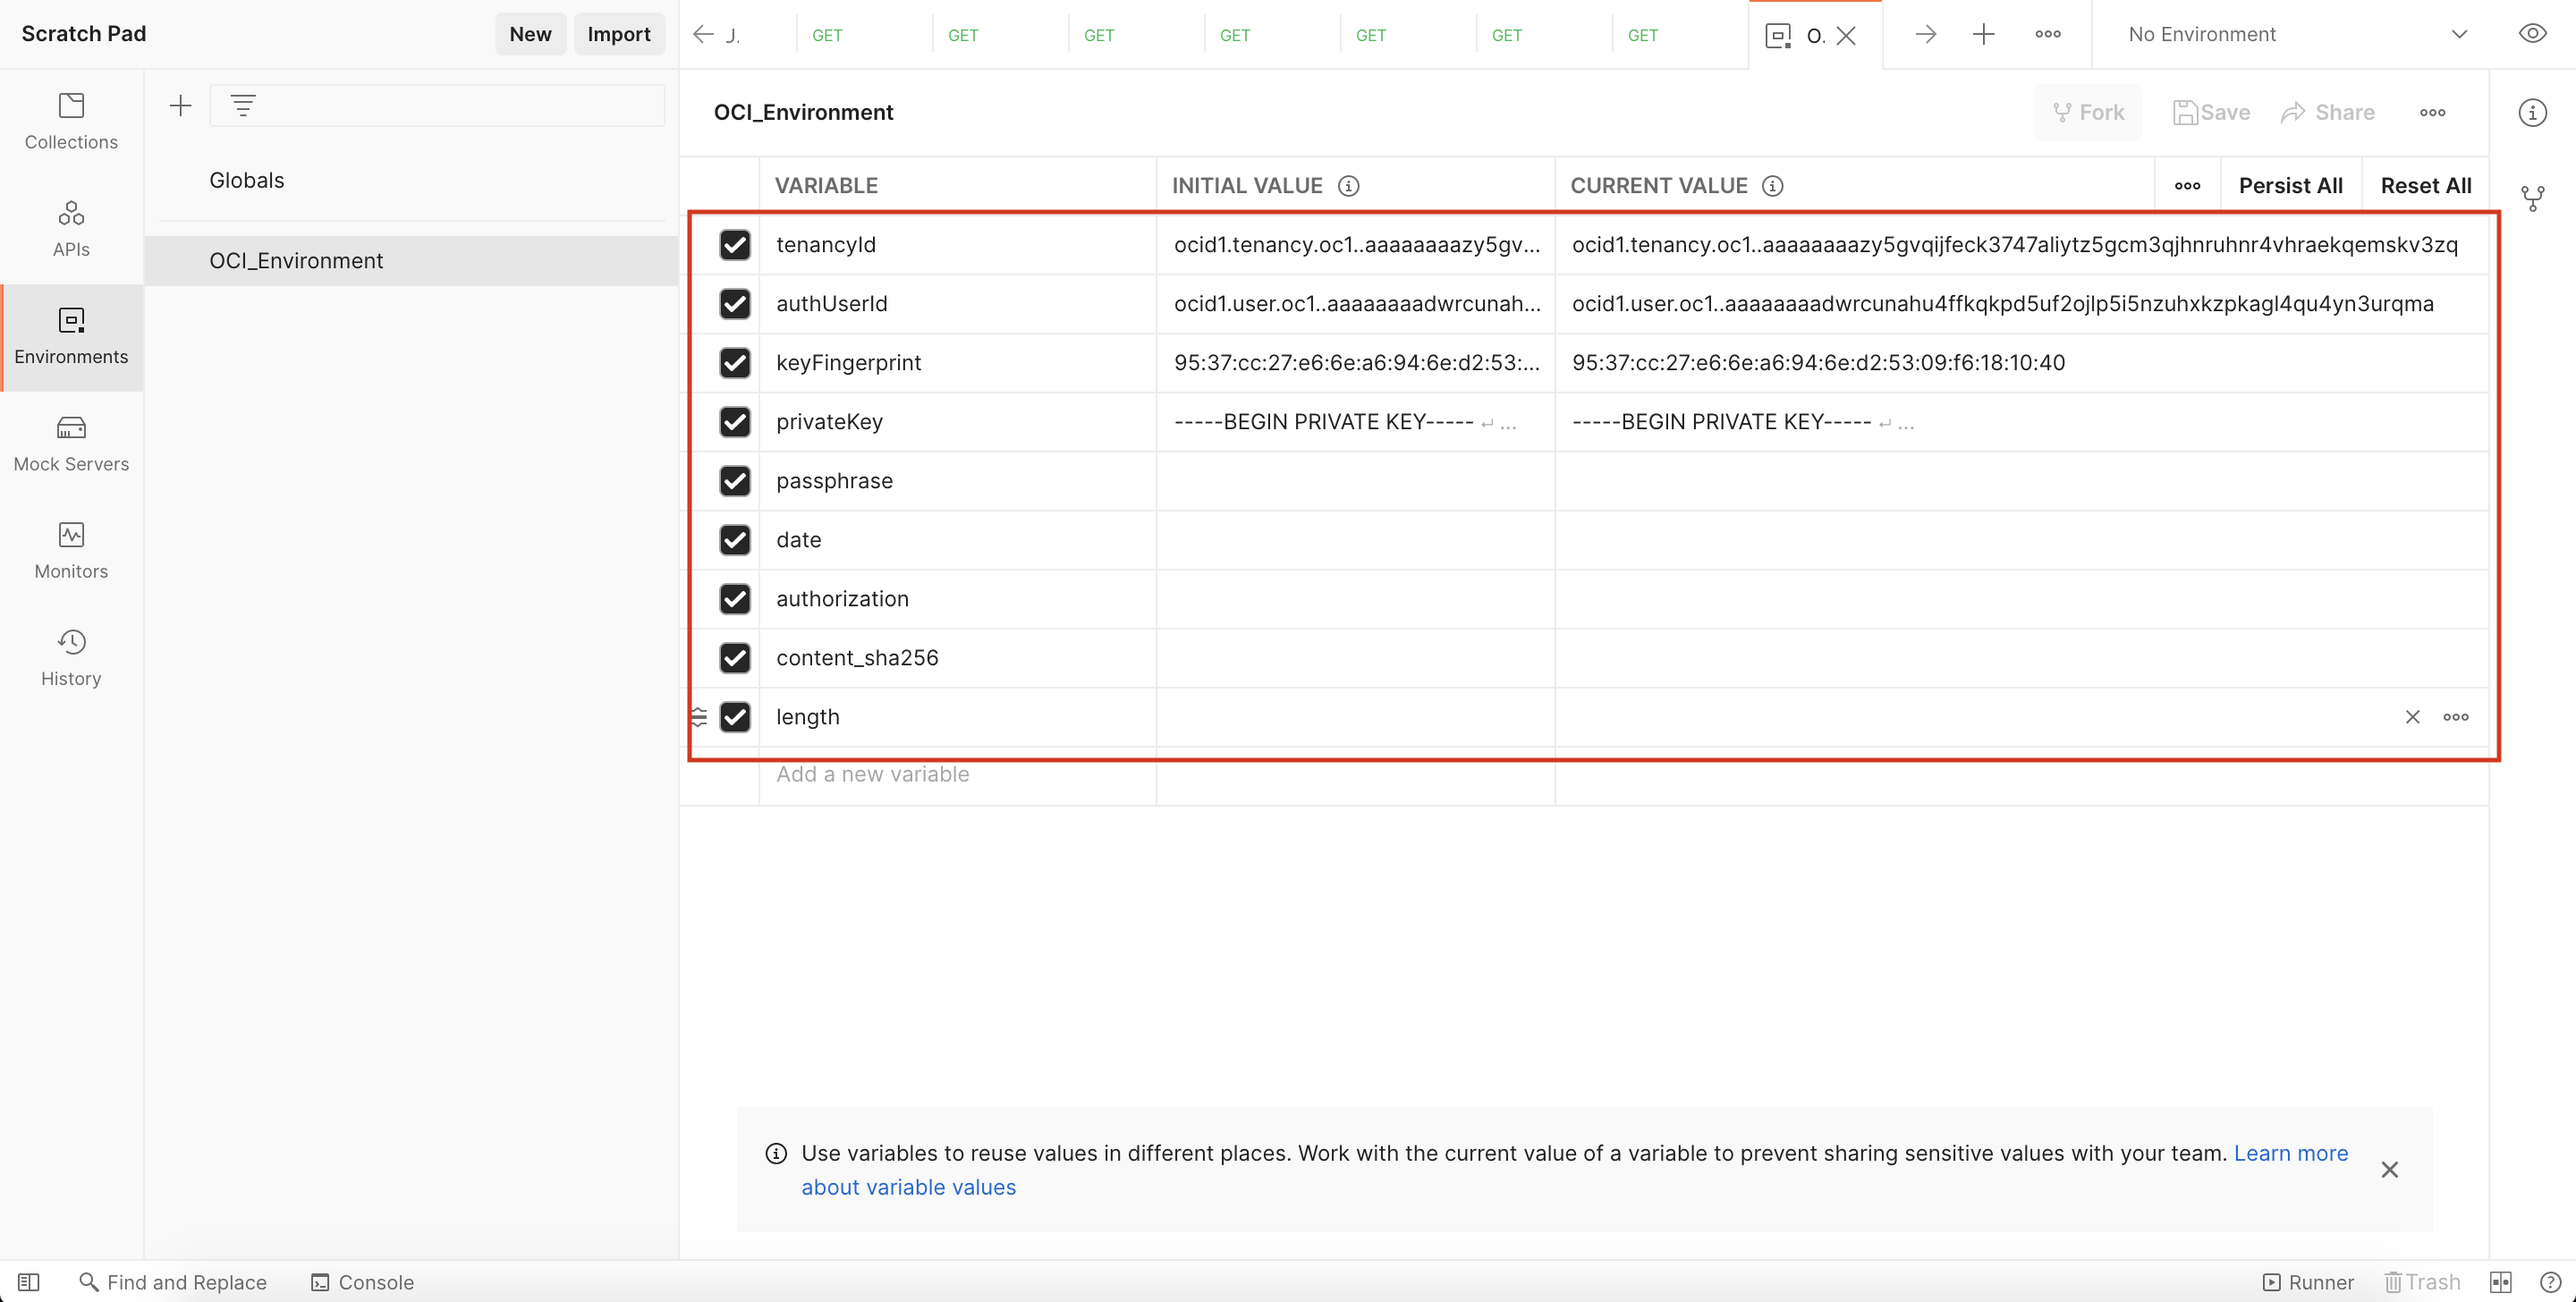
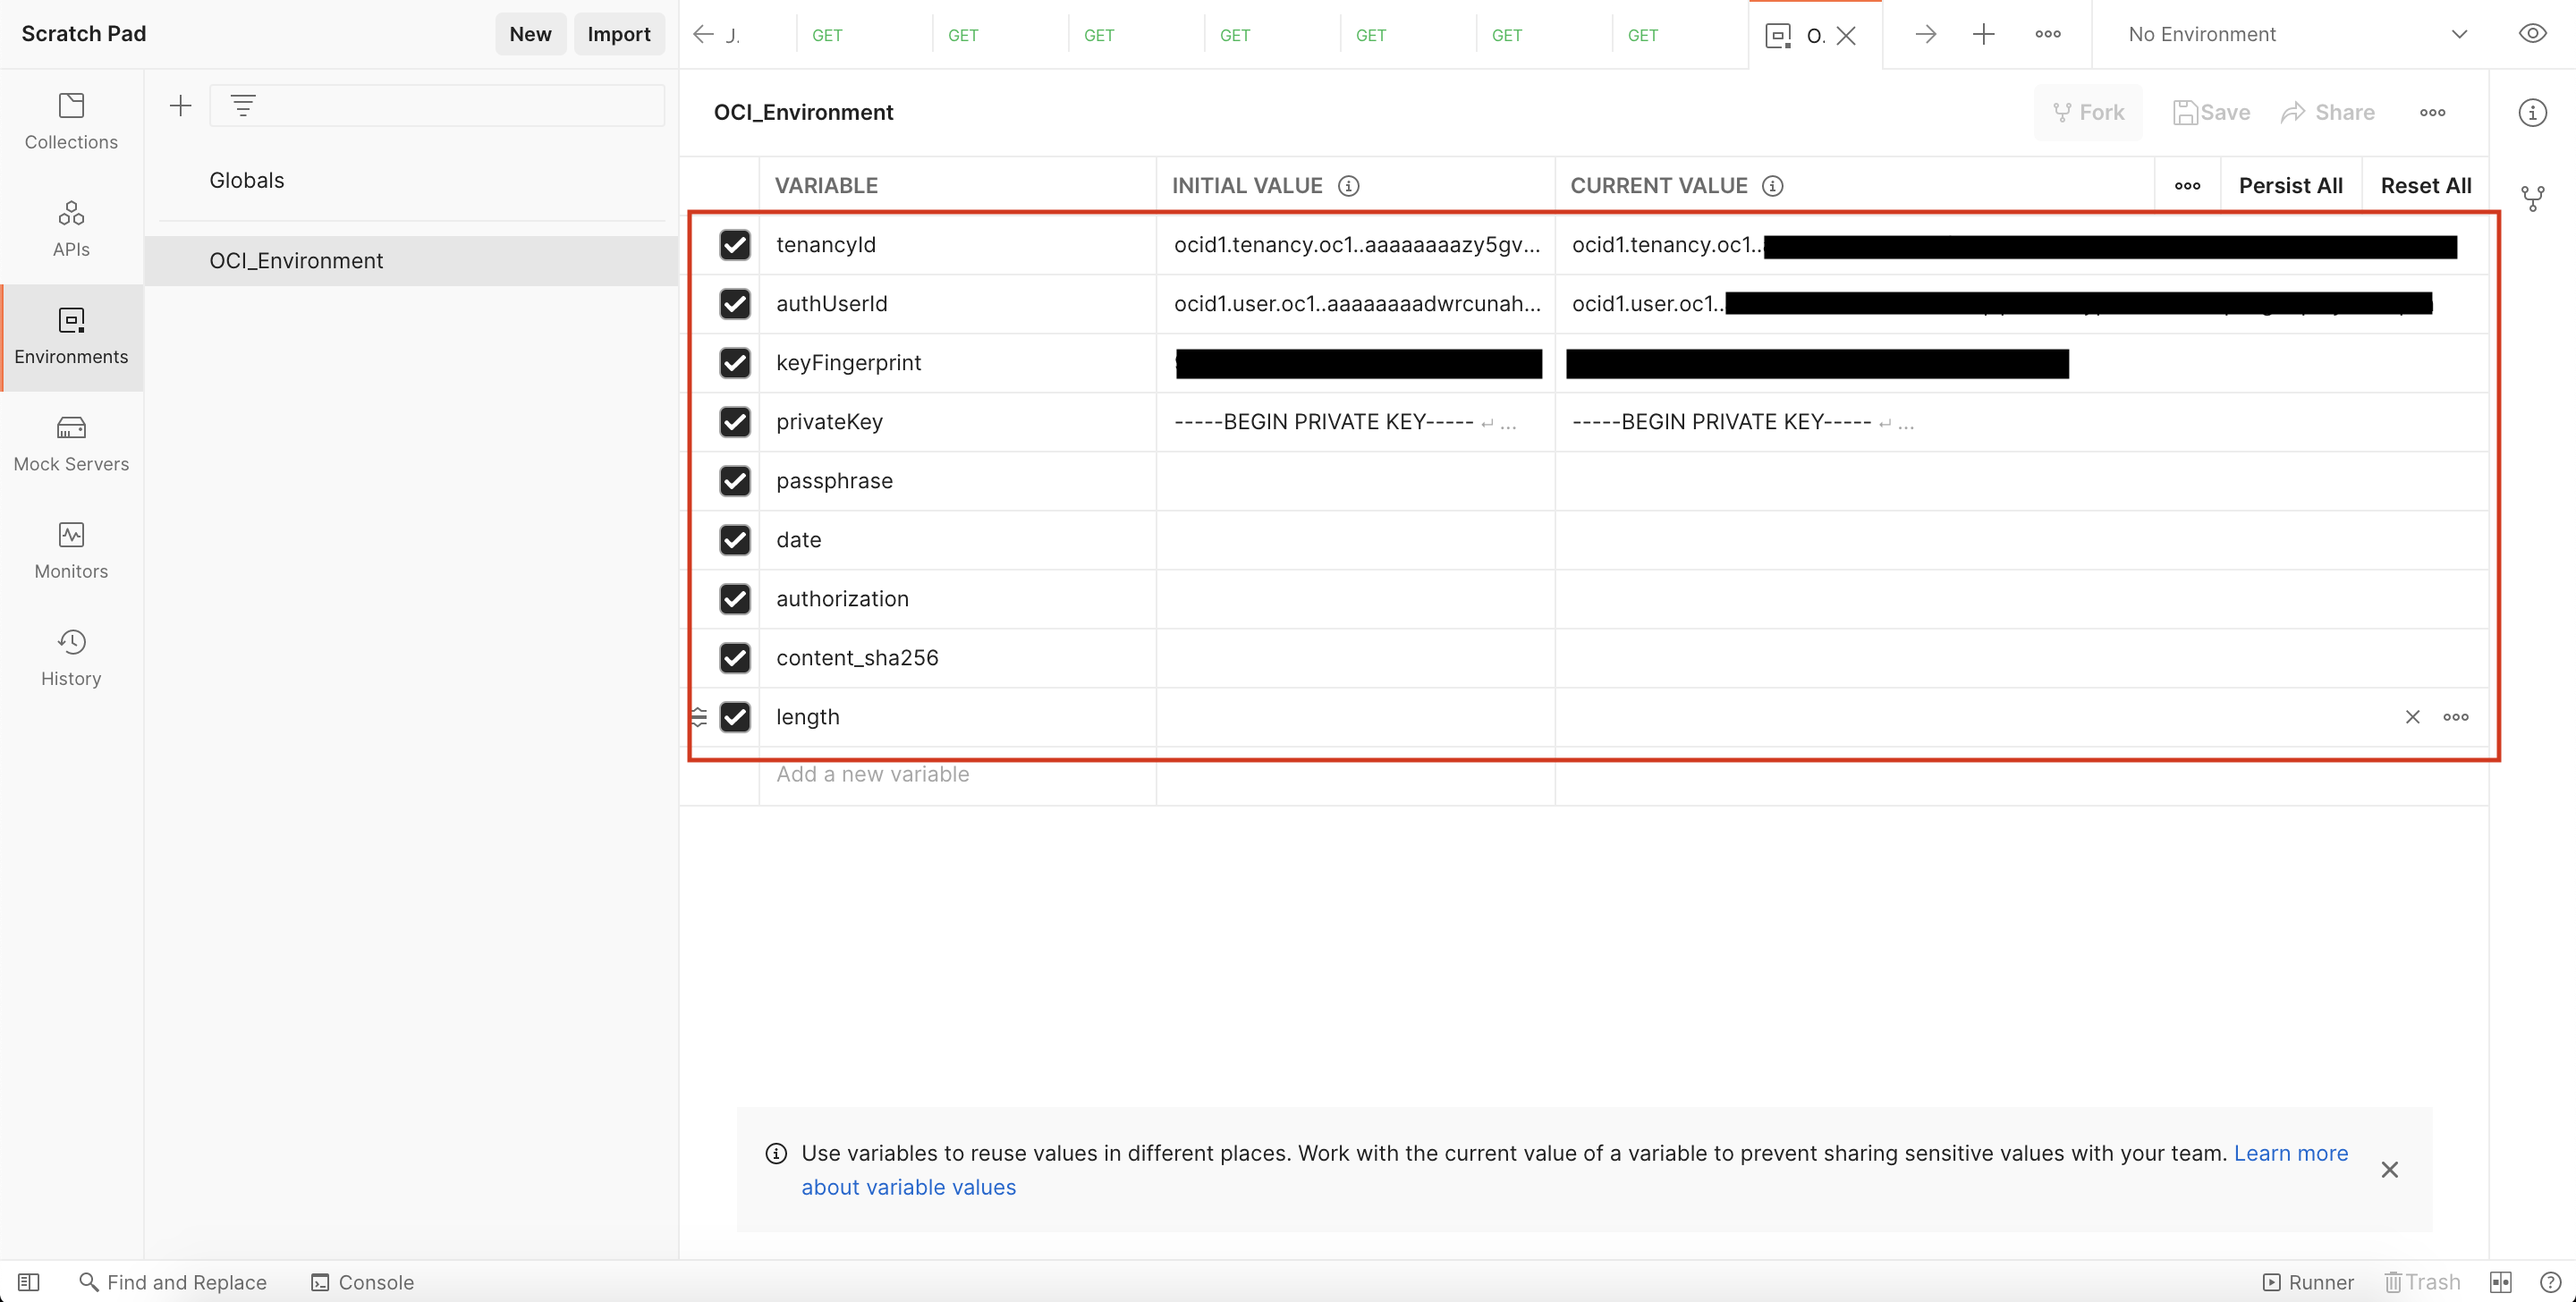
added enpoints for postman and edited screenshots

Changed region(s): [[0.4375, 0.1545, 0.9688, 0.3091]]

diff --git a/oci-library/oci-hol/oci-artificial-intelligence/ai-speech/oci-speech-rest/oci-speech-rest.md b/oci-library/oci-hol/oci-artificial-intelligence/ai-speech/oci-speech-rest/oci-speech-rest.md
@@ -33,6 +33,7 @@ Open and edit the newly imported environment (OCI_Environment), and set the vari
 Make sure to set both Initial Value and Current Value of the variables(set both as the same value).
 
 Click the Save button to commit your changes to the environment.
+(sensitive information redacted from below screenshot)
     ![](./images/setVar.png " ")
 
 ### 3. Import the Collections
@@ -54,41 +55,142 @@ Just make sure that the OCI REST calls are executed as part of the OCI REST COLL
 
 ## **TASK 2:** Invoke Speech OCI REST APIs
 
-Invoke Speech OCI REST APIs by clicking any one of the requests in the OCI REST COLLECTION. Enter the text you want to analyze in the body as shown below:
-    ```
-    <copy>{
-        "text" : "American football was derived from the European games of rugby and soccer. Unlike the game of soccer, however, American football focuses more on passing and catching the ball with the hands as opposed to kicking the ball with the feet. Standard American football field is 120 yards in length and 160 feet in width. They are hash marks on every yards and every 10 yards. American football is quickly become more popular then baseball and fan bases are increasing rapidly. Jerry Rice, Tom Brady and Lawrence Taylor are few top player of this sports."
-    }<copy>
-    ```
+Invoke Speech OCI REST APIs by clicking any one of the requests in the OCI SPEECH REST COLLECTION.
     
-Below in the example shown to invoke Detect Language Service.
-    ![](./images/collectionREST.png " ")
+Below in the example shown to invoke Create Transcription Job.
 
-OCI Language Service EndPoints for all the services:
+Replace all <placeholder> values with the corresponding values of the job you want to create
+    ![](./images/postman_screenshot.png " ")
 
+OCI Speech Service EndPoints for all the services:
+NOTE: be sure to replace <placeholder> values with actual job values
+
+
+### <u>Create Transcription Job</u>
+Endpoint:
 ```
-# Language Detection
-https://language.aiservice.us-ashburn-1.oci.oraclecloud.com/20210101/actions/detectDominantLanguage
-
-# Key Phrase Extraction
-https://language.aiservice.us-ashburn-1.oci.oraclecloud.com/20210101/actions/detectLanguageKeyPhrases
-
-# Named Entity Recognition
-https://language.aiservice.us-ashburn-1.oci.oraclecloud.com/20210101/actions/detectLanguageEntities
-
-# Text Classification
-https://language.aiservice.us-ashburn-1.oci.oraclecloud.com/20210101/actions/detectLanguageTextClassification
-
-# Aspect-Based Sentiment Analysis
-https://language.aiservice.us-ashburn-1.oci.oraclecloud.com/20210101/actions/detectLanguageSentiments
-
+<copy>
+https://speech.aiservice-preprod.us-phoenix-1.oci.oraclecloud.com/20220101/transcriptionJobs
+</copy>
 ```
+Body:
+```
+<copy>
+{
+    "compartmentId": "ocid1.compartment.oc1..<uniqueID>",
+    "definedTags": null,
+    "description": "<descriptionPlaceholder>",
+    "displayName": "<displayNamePlaceholder>",
+    "freeformTags": null,
+    "inputLocation": {
+        "locationType": "OBJECT_LIST_INLINE_INPUT_LOCATION",
+        "objectLocations": [
+            {
+                "bucketName": "<bucketNamePlaceholder>",
+                "namespaceName": "<namespacePlaceholder>",
+                "objectNames": [
+                    "<filename1>",
+                    "<filename2>",
+                    "<filename3>"
+                ]
+            }
+        ]
+    },
+    "modelDetails": {
+        "domain": "GENERIC",
+        "languageCode": "en-US"
+    },
+    "normalization": null,
+    "outputLocation": {
+        "bucketName": "<outputBucketPlaceholder>",
+        "namespaceName": "<namespacePlaceholder>",
+        "prefix": "<examplePrefix>/"
+    }
+}
+</copy>
+```
+
+### <u>Get Transcription Job</u>
+Endpoint:
+```
+<copy>
+https://speech.aiservice-preprod.us-phoenix-1.oci.oraclecloud.com/20220101/transcriptionJobs/<transcriptionJobId></copy>
+```
+### <u>List Transcription Jobs</u>
+Endpoint:
+```
+<copy>
+https://speech.aiservice-preprod.us-phoenix-1.oci.oraclecloud.com/20220101/transcriptionJobs?compartmentId=<compartmentId></copy>
+```
+### <u>Edit Transcription Job</u>
+Endpoint:
+```
+<copy>
+https://speech.aiservice-preprod.us-phoenix-1.oci.oraclecloud.com/20220101/transcriptionJobs/<transcriptionJobId>
+</copy>
+```
+Body:
+```
+<copy>
+{
+    "displayName": "<newNameOfJob>",
+    "description": "<newDescriptionOfJob>"
+}
+</copy>
+```
+### <u>Move Resource</u>
+Endpoint:
+```
+<copy>
+https://speech.aiservice-preprod.us-phoenix-1.oci.oraclecloud.com/20220101/transcriptionJobs/<transcriptionJobId>/actions/changeCompartment</copy>
+```
+Body:
+```
+<copy>
+{
+    "compartmentId": "<targetCompartmentHere>"
+}
+</copy>
+```
+### <u>Cancel Transcription Job</u>
+Endpoint:
+```
+<copy>
+https://speech.aiservice-preprod.us-phoenix-1.oci.oraclecloud.com/20220101/transcriptionJobs/<transcriptionJobId>/actions/cancel
+</copy>
+```
+
+### <u>Get Transcription Task</u>
+Endpoint:
+```
+<copy>
+https://speech.aiservice-preprod.us-phoenix-1.oci.oraclecloud.com/20220101/transcriptionJobs/<transcriptionJobId>/transcriptionTasks/<transcriptionTaskId>
+</copy>
+```
+
+### <u>Get Transcription Tasks</u>
+Endpoint:
+```
+<copy>
+https://speech.aiservice-preprod.us-phoenix-1.oci.oraclecloud.com/20220101/transcriptionJobs/<transcriptionJobId>/transcriptionTasks
+</copy>
+```
+
+### <u>Cancel Transcription Task</u>
+Endpoint:
+```
+<copy>
+https://speech.aiservice-preprod.us-phoenix-1.oci.oraclecloud.com/20220101/transcriptionJobs/<transcriptionJobId>/transcriptionTasks/<transcriptionTaskId>/actions/cancel
+</copy>
+```
+
 
 [Proceed to the next section](#next).
 
 
 ## Acknowledgements
 * **Authors**
+    * Alex Ginella - Oracle AI Services
     * Rajat Chawla  - Oracle AI Services
     * Ankit Tyagi -  Oracle AI Services
 * **Last Updated By/Date**
